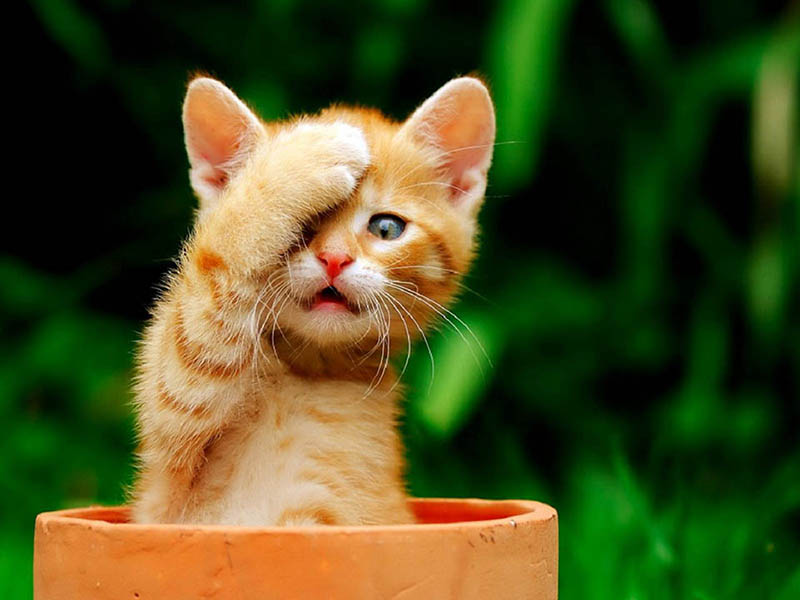
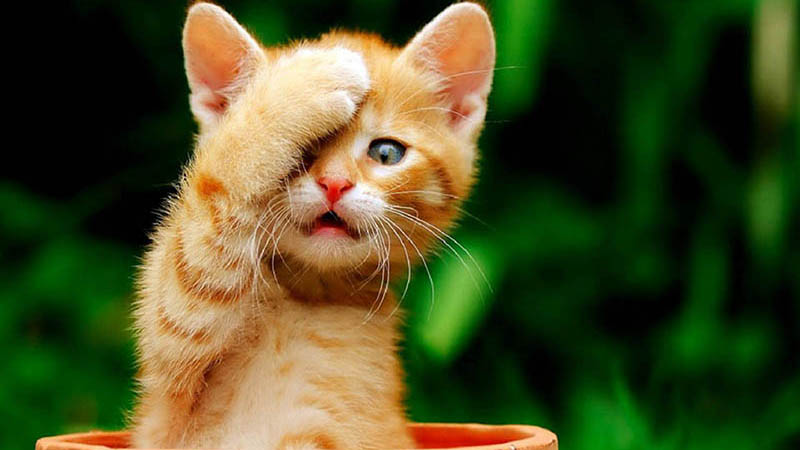
fix: images resolution and css (Mon, Sep 18, 2023 04:33:55 AM)

diff --git a/cssMemeSlider/css/style.css b/cssMemeSlider/css/style.css
@@ -77,6 +77,7 @@ h1 {
     font-size: var(--font1);
     line-height: 3rem;
     transition: 0.3s;
+    margin: 0 auto;
 }
 
 
@@ -129,7 +130,7 @@ h1 {
 .label {
     cursor: pointer;
     background-color: var(--color-grey);
-    transform: translateY(-1rem);
+    transform: translateY(0rem);
     z-index: 1;
 }
 
@@ -193,7 +194,7 @@ h1 {
     display: flex;
     justify-content: space-between;
     align-items: center;
-    margin: 3rem 1.25rem;
+    margin: 1rem 1.25rem;
 }
 
 .footer__item-wrap {
@@ -256,3 +257,49 @@ h1 {
     gap: 1.25rem;
 }
 
+@media (max-width: 768px) {
+    .footer__container {
+        flex-direction: column;
+        align-items: center;
+        height: 100%;
+        margin: 1rem 1.25rem;
+    }
+    .footer__item-wrap {
+        justify-content: space-between;
+        margin-left: 0;
+    }
+    h1 {
+        font-size: var(--font2);
+    }
+    .container {
+
+        padding: 0.25rem 1.25rem;
+    }
+}
+
+@media (max-width: 640px) {
+    .controls {
+        justify-content: center;
+        transform: translateY(0.25rem);
+    }
+    .text {
+        transform: translateY(0.5rem);
+    }
+
+}
+@media (max-width: 480px) {
+
+    h1 {
+        font-size: var(--font3);
+    }
+}
+@media (max-width: 414px) {
+    .footer__item {
+        flex-direction: column;
+        align-items: center;
+        height: 100%;
+        margin: 0 auto;
+    }
+
+
+}

diff --git a/cssMemeSlider/index.html b/cssMemeSlider/index.html
@@ -78,7 +78,7 @@
                         </div>
                     </div>
                     <div class="footer__item">
-                        <a class="footer__item-a" href="https://rs.school/js-stage0/">Rolling Scopes School &nbsp;&nbsp;<img src="assets/svg/rs_school_js.svg" class="rs_school-item" width="100" alt="Rolling Scopes School">
+                        <a class="footer__item-a" href="https://rs.school/js-stage0/"><img src="assets/svg/rs_school_js.svg" class="rs_school-item" width="100" alt="Rolling Scopes School">
                     </a>
                     </div>
                 </div>
